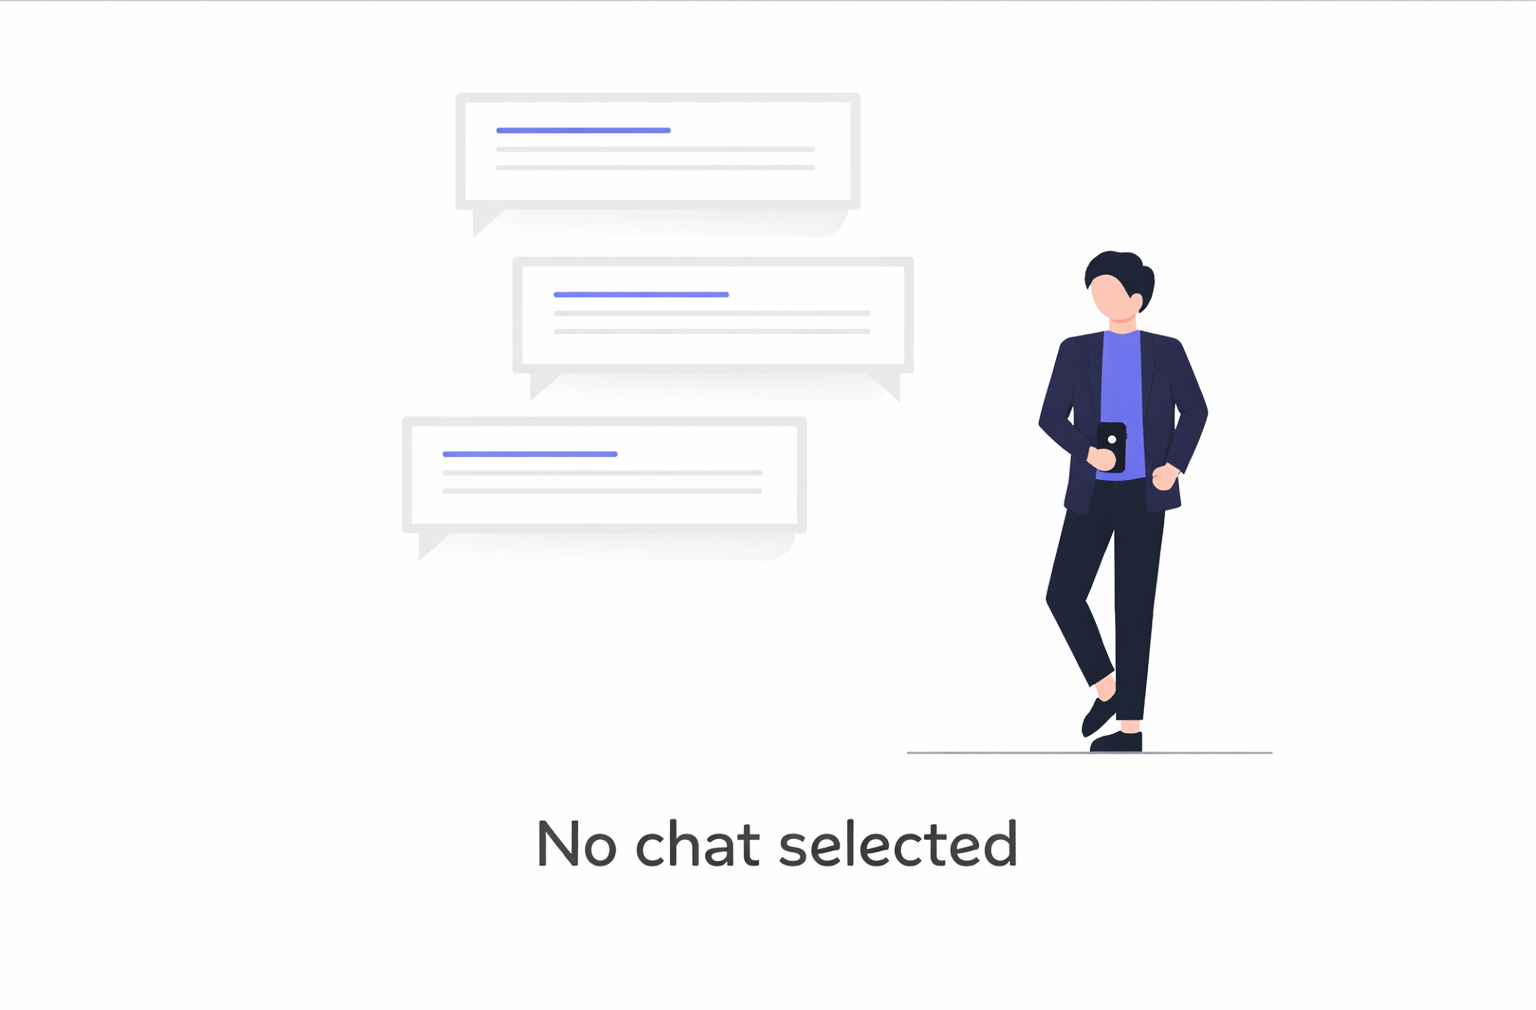
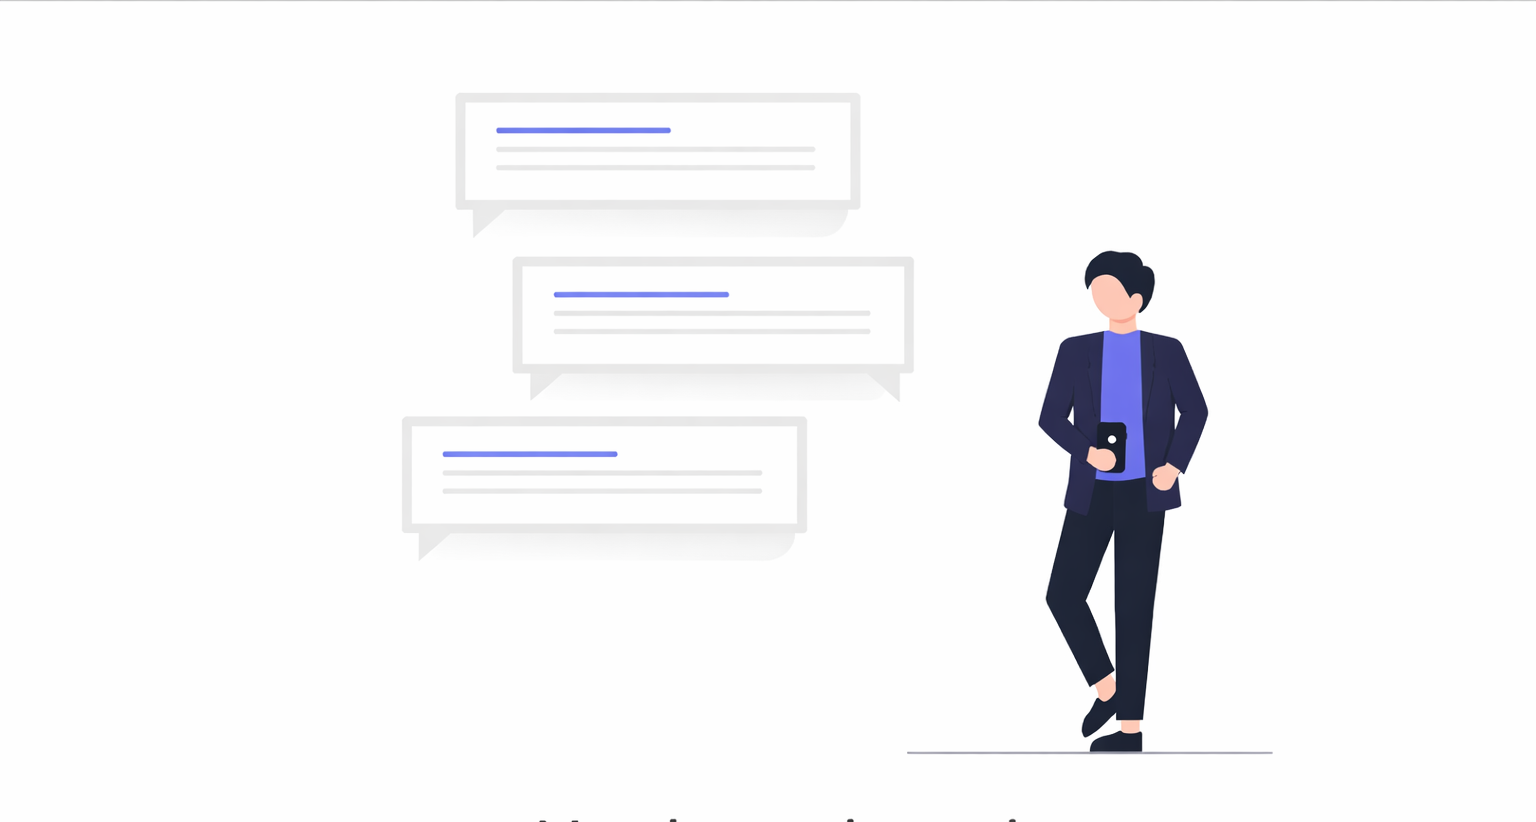
updated the chat windoe page

diff --git a/VIA_Frontend/src/client/chat/ChatWindow.jsx b/VIA_Frontend/src/client/chat/ChatWindow.jsx
@@ -1,22 +1,40 @@
-// export default function ChatWindow() {
-//   return (
-//     <div className="flex-1 flex items-center justify-center bg-gray-50">
-//       <div className="text-center">
-//        <img className="w-130 mx-auto mb-6" src="/photo/Nochatimg.png" alt="No chat" />
-//         <h2 className="text-3xl font-semibold text-gray-600">
-//           No chat selected
-//         </h2>
-//         <p className="text-gray-400 mt-2">
-//           Select a conversation to start messaging
-//         </p>
-//       </div>
-//     </div>
-//   )
-// }
+
+
+import {
+  FaUserPlus,
+  FaUserMinus,
+  FaVideo,
+  FaSignOutAlt,
+  FaLock,
+  FaMicrophone,
+  FaPaperPlane
+} from "react-icons/fa"
 
 import { useEffect, useState } from "react"
 
 export default function ChatWindow({ selectedChat }) {
+
+function IconButton({ icon, label, color }) {
+
+  return (
+    <div className="relative group flex flex-col items-center">
+
+      <button
+        className={`${color} text-white p-3 rounded-lg hover:scale-105 transition`}
+      >
+        {icon}
+      </button>
+
+      {/* TOOLTIP */}
+
+      <span className="absolute top-12 scale-0 group-hover:scale-100 transition bg-black text-white text-xs px-2 py-1 rounded whitespace-nowrap">
+        {label}
+      </span>
+
+    </div>
+  )
+}
+
 
   const colors = [
     "text-purple-600",
@@ -39,7 +57,7 @@ export default function ChatWindow({ selectedChat }) {
   }, [])
 
   // 🔹 NO CHAT SELECTED
-  if (!selectedChat) {
+  if (selectedChat) {
     return (
       <div className="flex-1 flex items-center justify-center bg-gray-50">
         <div className="text-center">
@@ -62,62 +80,87 @@ export default function ChatWindow({ selectedChat }) {
   }
 
   // 🔹 CHAT SELECTED UI
-  return (
-    <div className="flex flex-col flex-1 bg-gray-100">
+  
+
+   return (
+    <div className="flex-1 flex flex-col bg-gray-100 mx-5 mb-5 mt-5">
 
       {/* HEADER */}
-      <div className="h-16 bg-white border-b flex items-center justify-between px-6 shadow-sm">
 
-        <h2 className={`text-xl font-bold ${colors[colorIndex]}`}>
-          {selectedChat.name}
-        </h2>
+      <div className="flex justify-between items-center bg-white shadow px-8 py-6 rounded-md px-3">
 
-        <div className="flex gap-3">
-          <button className="bg-blue-500 text-white px-3 py-2 rounded-lg">
-            📹
-          </button>
+        {/* LEFT */}
 
-          <button className="bg-red-500 text-white px-3 py-2 rounded-lg">
-            🔒
-          </button>
+        <div className="flex items-center gap-6">
+          <h2 className="text-2xl font-semibold text-purple-700">
+            YADAV
+          </h2>
+
+          <span className="text-lg font-medium text-gray-700">
+            VIKASH KUMAR,
+          </span>
         </div>
 
+
+        {/* RIGHT ICONS */}
+
+        <div className="flex items-center gap-4">
+
+          <IconButton
+            icon={<FaUserPlus />}
+            label="Add User"
+            color="bg-blue-600"
+          />
+
+          <IconButton
+            icon={<FaUserMinus />}
+            label="Remove User"
+            color="bg-red-500"
+          />
+
+          <IconButton
+            icon={<FaVideo />}
+            label="Video Call"
+            color="bg-blue-600"
+          />
+
+          <IconButton
+            icon={<FaSignOutAlt />}
+            label="Exit Room"
+            color="bg-red-500"
+          />
+
+          <IconButton
+            icon={<FaLock />}
+            label="Lock Room"
+            color="bg-red-500"
+          />
+
+        </div>
       </div>
 
-      {/* MESSAGES AREA */}
-      <div className="flex-1 overflow-y-auto p-6 space-y-4">
 
-        {/* example messages */}
+      {/* CHAT AREA */}
 
-        <div className="flex justify-start">
-          <div className="bg-white px-4 py-2 rounded-xl shadow">
-            Hello Vikash 👋
-          </div>
-        </div>
+      <div className="flex-1"></div>
 
-        <div className="flex justify-end">
-          <div className="bg-blue-500 text-white px-4 py-2 rounded-xl shadow">
-            Hi Yadav!
-          </div>
-        </div>
 
-      </div>
+      {/* INPUT AREA */}
 
-      {/* MESSAGE INPUT */}
-      <div className="p-4 bg-white border-t flex items-center gap-3">
+      <div className="flex items-center gap-3 bg-white ">
 
         <input
           type="text"
           placeholder="Type a message..."
-          className="flex-1 border rounded-lg px-4 py-3 focus:outline-none"
+           className="flex-1 border border-gray-200 rounded-md px-3 py-2 outline-none"
         />
 
-        <button className="bg-blue-600 text-white px-4 py-3 rounded-lg">
-          🎤
+        <button className="bg-blue-600 text-white p-3 rounded-lg hover:bg-blue-700">
+          <FaMicrophone />
         </button>
 
-        <button className="bg-blue-600 text-white px-4 py-3 rounded-lg">
-          ➤
+        <button className="bg-blue-600 text-white p-3 rounded-lg hover:bg-blue-700">
+          <FaPaperPlane />
         </button>
 
       </div>

diff --git a/VIA_Frontend/src/client/chat/ChatSiderbar.jsx b/VIA_Frontend/src/client/chat/ChatSiderbar.jsx
@@ -1,15 +1,89 @@
-export default function ChatSidebar() {
-  return (
-    <div className="w-80 bg-white border-r p-4">
-      <h2 className="text-lg font-semibold mb-4">Chats</h2>
+// export default function ChatSidebar() {
+//   return (
+//     <div className="w-80 bg-white border-r p-4">
+//       <h2 className="text-lg font-semibold mb-4">Chats</h2>
 
-      <div className="space-y-3">
-        <div className="p-3 bg-gray-100 rounded-lg cursor-pointer hover:bg-gray-200">
-          John Doe
+//       <div className="space-y-3">
+//         <div className="p-3 bg-gray-100 rounded-lg cursor-pointer hover:bg-gray-200">
+//           John Doe
+//         </div>
+//         <div className="p-3 bg-gray-100 rounded-lg cursor-pointer hover:bg-gray-200">
+//           Team Meeting
+//         </div>
+//       </div>
+//     </div>
+//   )
+// }
+
+import { useState } from "react"
+ import { Plus,Users } from "lucide-react"
+
+export default function ChatSidebar() {
+  const [rooms, setRooms] = useState([])
+  const [roomName, setRoomName] = useState("")
+
+  const createRoom = () => {
+    if (!roomName.trim()) return
+
+    const newRoom = {
+      id: Date.now(),
+      name: roomName
+    }
+
+    setRooms([...rooms, newRoom])
+    setRoomName("")
+  }
+
+  return (
+    <div className="w-80 h-full bg-white flex flex-col shadow-[6px_0_8px_rgba(0,0,0,0.08)]">
+
+      {/* Room List */}
+      <div className="flex-1 p-4 overflow-y-auto">
+
+        {rooms.length === 0 ? (
+          <h2 className="text-2xl font-semibold text-gray-700">
+            No rooms
+          </h2>
+        ) : (
+          <div className="space-y-3">
+            {rooms.map((room) => (
+              <div
+                key={room.id}
+                className="flex items-center gap-2  p-3 bg-gray-100 rounded-lg cursor-pointer hover:bg-gray-200"
+              >
+                <Users size={18} className="text-gray-600" />
+               <span>{room.name}</span>
+              </div>
+            ))}
+          </div>
+        )}
+
+      </div>
+
+      {/* Create Room Section */}
+      <div className=" p-4">
+
+        <p className="font-semibold mb-2">
+          Create new room
+        </p>
+
+        <div className="flex gap-2">
+          <input
+            type="text"
+            placeholder="Room name"
+            value={roomName}
+            onChange={(e) => setRoomName(e.target.value)}
+            className="flex-1 border border-gray-200 rounded-md px-3 py-2 outline-none"
+          />
+
+          <button
+            onClick={createRoom}
+            className="bg-blue-600 text-white px-4 rounded-md flex items-center justify-center hover:bg-blue-700"
+          >
+            <Plus size={18}/>
+          </button>
         </div>
-        <div className="p-3 bg-gray-100 rounded-lg cursor-pointer hover:bg-gray-200">
-          Team Meeting
-        </div>
+
       </div>
     </div>
   )
